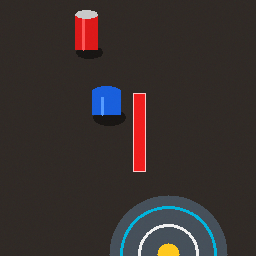
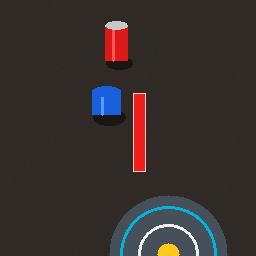
feat: implement strict 3-point high bridge corridor for zero obstacle collisions

Changed region(s): [[0.2812, 0.0312, 0.5, 0.2812]]

diff --git a/src/vla_motion_planning/vla_motion_planning/trajectory_executor_node.py b/src/vla_motion_planning/vla_motion_planning/trajectory_executor_node.py
@@ -234,8 +234,8 @@ class TrajectoryExecutorNode(Node):
     def build_collision_aware_trajectory(self, p_src, p_dst, obj_name, avoid_obs):
         self.trajectory_queue.clear()
         self.planned_path_points.clear()
-        hover_z = 0.16
-        obstacle_clearance_z = 0.38
+        hover_z = 0.18
+        high_corridor_z = 0.44
 
         p_src_hover = p_src + np.array([0, 0, hover_z])
         p_dst_hover = p_dst + np.array([0, 0, hover_z])
@@ -252,12 +252,32 @@ class TrajectoryExecutorNode(Node):
         self.trajectory_queue.append(('ATTACH', obj_name, 0.1))
         self.add_cartesian_segment(p_src_hover, gripper=0.015, duration=1.2)
 
-        # 2. Collision Avoidance Transit: Arc waypoints above laser barrier
+        # 2. Strict Collision Avoidance Transit: High Bridge Corridor
         if avoid_obs:
-            midpoint = (p_src_hover + p_dst_hover) / 2.0
-            midpoint[2] = obstacle_clearance_z
-            self.planned_path_points.append(list(midpoint))
-            self.add_cartesian_segment(midpoint, gripper=0.015, duration=2.2)
+            # Check if trajectory intersects the obstacle barrier corridor (Y in [-0.08, 0.18])
+            y_start, y_end = p_src[1], p_dst[1]
+            if (y_start < 0.05 < y_end) or (y_end < 0.05 < y_start):
+                # 3-point high clearance plateau bridge over the barrier
+                # 2.1 Climb up before reaching the obstacle zone
+                wp_climb = np.array([p_src[0], -0.12 if y_start < y_end else 0.22, high_corridor_z])
+                self.planned_path_points.append(list(wp_climb))
+                self.add_cartesian_segment(wp_climb, gripper=0.015, duration=1.8)
+
+                # 2.2 Cruise horizontally directly over the obstacle with generous vertical clearance (>22cm)
+                wp_cross = np.array([0.40, 0.05, high_corridor_z])
+                self.planned_path_points.append(list(wp_cross))
+                self.add_cartesian_segment(wp_cross, gripper=0.015, duration=1.5)
+
+                # 2.3 Maintain altitude until completely past the obstacle boundary
+                wp_clear = np.array([p_dst[0], 0.22 if y_start < y_end else -0.12, high_corridor_z])
+                self.planned_path_points.append(list(wp_clear))
+                self.add_cartesian_segment(wp_clear, gripper=0.015, duration=1.8)
+            else:
+                # Midpoint clearance arc for non-crossing movements
+                midpoint = (p_src_hover + p_dst_hover) / 2.0
+                midpoint[2] = high_corridor_z
+                self.planned_path_points.append(list(midpoint))
+                self.add_cartesian_segment(midpoint, gripper=0.015, duration=2.2)
 
         self.planned_path_points.append(list(p_dst_hover))
         self.planned_path_points.append(list(p_dst + np.array([0, 0, 0.05])))
